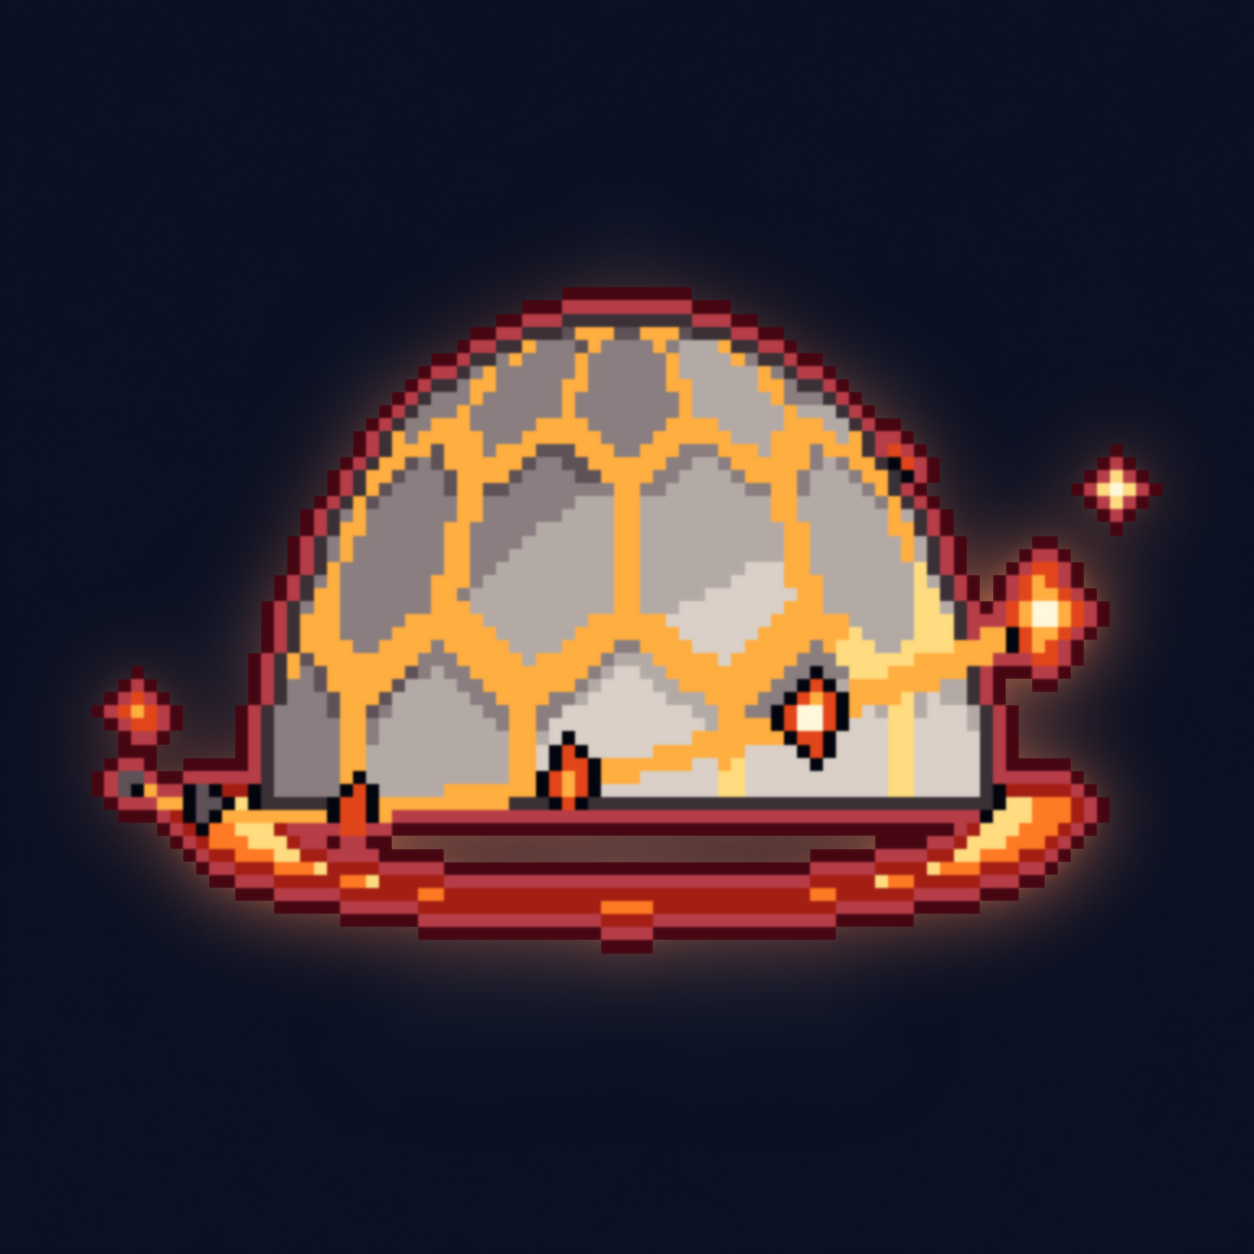
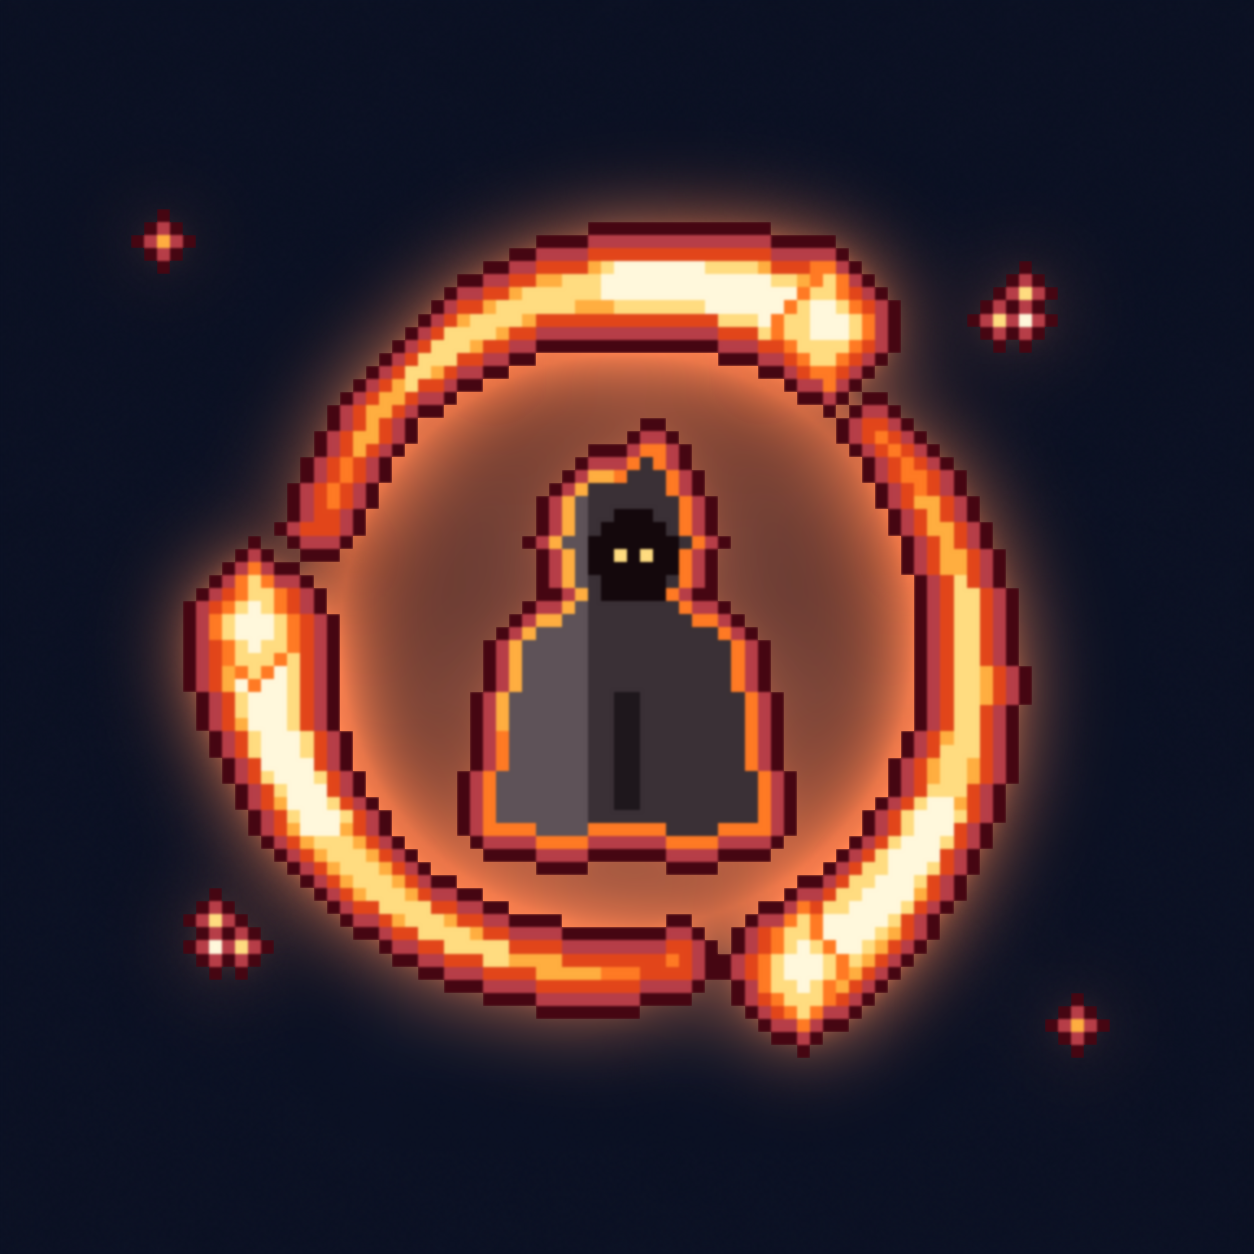
art: Cinder Ward reads as a ward at 64 px - Ilya hooded in ash inside three ember strokes wheeling round her, each swelling to a white-hot cinder, the space within lit; was a dome of ash hex plates that read as a shell
build_skill_icons.py: only cinder_ward changes (comet_arc replaces hex_edge); same 1254 canvas, field, ILYA rim and outline, FLAME and ASH ramps. The other three icons regenerate byte-identical; GUID 207e5208e9d042d787f1fadd89370a3e and its .meta kept. Review sheet: ArtDirection/2026-11-19/skill-icons-02 (untracked).

diff --git a/Tools/ArtReview/build_skill_icons.py b/Tools/ArtReview/build_skill_icons.py
@@ -21,9 +21,9 @@ its glyph painted out):
     steel-blue speed streaks behind it and the strike's white flare at its leading edge.
   - Flame Sigil (Ilya, docs/57 3.2): a furnace glyph on the floor - an ember ring in perspective notched with white-hot
     runes round an inner ring, the floor inside it lit, and a curling flame rising from its centre with two small ones.
-  - Cinder Ward (Ilya): a dome of ash-white hexagonal plates (laid on the sphere, so they crowd toward its edge) whose
-    seams glow ember, on a burning base ring, with a whirl of cinders round it - an orbit's ember trail crossing in
-    front, swelling to a bright cinder at its head.
+  - Cinder Ward (Ilya): Ilya hooded in her ash robe, a dark silhouette rimmed in ember, inside a ward of three ember
+    strokes wheeling round her, each swelling to a white-hot cinder at its head, the space within lit. (Its first
+    paint, a dome of ash hexagonal plates, read as a shell at 64 px; skill-icons-02 of 2026-11-19.)
 
 The Vanguard's two glow the Forge Burst's blue and are rimmed in its blue; Ilya's two glow and are rimmed in the
 Crucible Vent's ember and crimson. Deterministic: the same script paints the same bytes (the inpainted field, minutes to
@@ -331,89 +331,95 @@ def flame_sigil(g):
     sparkle(g, cx + 22, 38, 1, FLAME[5], emit=1.2, core=FLAME[6])
 
 
-def hex_edge(u, v):
-    """Distance from (u, v) to the nearest edge of its cell in a pointy-top hexagonal tiling of unit circumradius."""
-    q = (math.sqrt(3) / 3 * u - v / 3)
-    r = 2.0 / 3 * v
-    x, z = q, r
-    y = -x - z
-    rx, ry, rz = np.round(x), np.round(y), np.round(z)
-    dx, dy, dz = np.abs(rx - x), np.abs(ry - y), np.abs(rz - z)
-    rx = np.where((dx > dy) & (dx > dz), -ry - rz, rx)
-    rz = np.where(~((dx > dy) & (dx > dz)) & ~(dy > dz), -rx - ry, rz)
-    hx = math.sqrt(3) * (rx + rz / 2)
-    hy = 1.5 * rz
-    ox, oy = u - hx, v - hy
-    proj = np.maximum(np.abs(ox), np.maximum(np.abs(ox * 0.5 + oy * math.sqrt(3) / 2),
-                                             np.abs(ox * 0.5 - oy * math.sqrt(3) / 2)))
-    return math.sqrt(3) / 2 - proj, rx, rz
+def comet_arc(cx, cy, head, span, r_head, r_tail, w_head, w_tail):
+    """One stroke of a whirl round (cx, cy): an arc running clockwise (y down) to its head at `head` degrees, `span`
+    degrees long, its radius easing from r_tail to r_head and its half width swelling from w_tail to a round head of
+    w_head. Extra: t (0 at the tail, 1 at the head) and s (-1 inside to 1 outside, across the stroke)."""
+    hx = cx + r_head * math.cos(math.radians(head))
+    hy = cy + r_head * math.sin(math.radians(head))
 
+    def f(x, y):
+        dx, dy = x - cx, y - cy
+        r = np.hypot(dx, dy)
+        back = (head - np.degrees(np.arctan2(dy, dx))) % 360.0
+        on = back <= span
+        t = np.clip(1.0 - back / span, 0, 1)
+        rc = r_tail + (r_head - r_tail) * t
+        w = w_tail + (w_head - w_tail) * t ** 1.4
+        s = (r - rc) / w
+        cap = np.hypot(x - hx, y - hy) <= w_head
+        inside = (on & (np.abs(s) <= 1)) | cap
+        return inside, dict(t=np.where(on, t, 1.0), s=np.where(on, s, 0.0))
 
-HEX_DEG = 19.0
+    return f, (hx, hy)
 
 
 def cinder_ward(g):
-    """A dome of ash-white hexagonal plates, its seams glowing ember, on a burning ring, cinders whirling round it."""
-    cx, base, rx, ry = 48.0, 70.0, 28.0, 38.0
-    orbit_c, orx, ory, tilt = (48.0, 57.0), 40.0, 9.5, -14.0
+    """Ilya hooded in her ash robe, warded by a whirl of three ember strokes, each swelling to a white-hot cinder at its
+    head, round a space lit from within."""
+    cx, cy = 48.0, 49.0
+    r_out = 31.0
 
-    def orbit_point(deg):
-        a = math.radians(deg)
-        x, y = orx * math.cos(a), ory * math.sin(a)
-        b = math.radians(tilt)
-        return orbit_c[0] + x * math.cos(b) - y * math.sin(b), orbit_c[1] + x * math.sin(b) + y * math.cos(b)
+    # The warded space glows, brightest toward the ward's edge (a bubble's rim), drawn as light on the field.
+    xs = (np.arange(N * lib.UP, dtype=np.float32) + 0.5) / lib.UP
+    X, Y = np.meshgrid(xs, xs)
+    d = np.hypot(X - cx, Y - cy) / (r_out - 6.0)
+    fade = np.clip((1.04 - d) / 0.16, 0, 1)
+    g.field += np.array([1.0, 0.42, 0.12], np.float32) * ((0.27 + 0.30 * np.clip(d, 0, 1) ** 2.2) * fade)[..., None]
 
-    def cinder(deg, r, ramp=FLAME, emit=1.3):
-        x, y = orbit_point(deg)
-        pts = [(x, y - r * 1.25), (x + r, y), (x, y + r * 1.25), (x - r, y)]
-        m = part(g, polygon(pts), colours(ramp, 4), ramp, inline=2, emit=emit)
-        if r >= 2.2:
-            g.paint(mask_of(ellipse(x, y, r * 0.45)) & m, ramp[6], separate=False, emit=emit)
-        return m
+    # The ward: three comet strokes wheeling clockwise, a short gap between each tail and the head before it.
+    heads = []
+    for head in (-58.0, 62.0, 182.0):
+        arc, hp = comet_arc(cx, cy, head, 104.0, r_out - 2.6, r_out - 6.2, 3.9, 1.2)
+        m = mask_of(arc)
+        _, e = arc(CX, CY)
+        t, s = e["t"], e["s"]
+        tone = 3 + (t > 0.30) + (t > 0.66)
+        tone = np.where((np.abs(s) < 0.45) & (t > 0.15), tone + 1, tone)
+        tone = np.where(s > 0.62, tone - 1, tone)
+        part(g, m, colours(FLAME, tone), FLAME, inline=2, emit=1.25)
+        heads.append(hp)
 
-    # The far half of the orbit, behind the dome: a few dim cinders.
-    for deg, r in ((-160, 1.4), (-125, 1.6), (-55, 1.6)):
-        cinder(deg, r, emit=0.9)
+    # The cinder at each stroke's head: a white-hot diamond.
+    for hx, hy in heads:
+        r = 4.0
+        pts = [(hx, hy - r * 1.25), (hx + r, hy), (hx, hy + r * 1.25), (hx - r, hy)]
+        m = part(g, polygon(pts), colours(FLAME, 5), FLAME, inline=3, separate=False, emit=1.5)
+        g.paint(mask_of(ellipse(hx, hy, 1.6)) & m, FLAME[6], separate=False, emit=1.6)
 
-    # The base ring, burning.
-    br = ring(cx, base, rx - 1.0, rx + 7.0, squash=0.24)
-    bm = mask_of(br) & (CY >= base - 1.6)
-    _, e = br(CX, CY)
-    part(g, bm, colours(FLAME, np.where(e["r"] < 0.45, 5, 3)), FLAME, inline=1, emit=1.0)
+    # Ilya inside it: a hooded ash robe in silhouette against the lit space, its edge caught in the ward's ember light.
+    # Drawn at its own size, then drawn in a little (k) so the lit space shows all round it.
+    k = 0.88
 
-    # The dome: hexagonal ash plates laid on the sphere (so they crowd toward its edge), their seams lit from inside.
-    dome = ellipse(cx, base, rx, ry)
-    dm = mask_of(dome) & (CY < base)
-    _, e = dome(CX, CY)
-    nx, ny = e["nx"], e["ny"]
-    nz = np.sqrt(np.clip(1 - nx * nx - ny * ny, 0, 1))
-    lat = np.degrees(np.arcsin(np.clip(-ny, -1, 1)))
-    lon = np.degrees(np.arctan2(nx, np.maximum(nz, 1e-3)))
-    edge, hq, hr = hex_edge(lon / HEX_DEG, (lat - 4.0) / HEX_DEG)
-    seam = edge < 0.13 + 0.07 * (np.abs(lon) / 90.0)
-    toward = -(nx * lib.LXY[0] + ny * lib.LXY[1])
-    plate_var = ((hq * 7 + hr * 3) % 3 == 0) * 0.45
-    tone = np.round(4.1 + 1.8 * (0.72 * toward + 0.38 * (nz - 0.55)) + plate_var).astype(int)
-    # Each plate's lower edge a tone darker, so the plates read as raised scales and not as a flat print.
-    below, _, _ = hex_edge(lon / HEX_DEG, (lat - 4.0 + 3.0) / HEX_DEG)
-    tone = np.where((below < 0.13) & ~seam, tone - 1, tone)
-    part(g, dm, colours(ASH, tone), ASH, inline=1)
-    sm = seam & dm & ~edge_of(dm)
-    g.paint(sm, colours(FLAME, np.where(toward > 0.1, 5, 4)), separate=False, emit=0.75)
+    def P(x, y):
+        return cx + (x - cx) * k, cy - 0.6 + (y - cy) * k
 
-    # The near half of the orbit, over the dome: a trail of cinders and flakes growing to its bright head.
-    # The orbit's trail: a thin ember streak swelling toward the head.
-    streak = np.zeros((N, N), bool)
-    for a in np.linspace(176.0, 44.0, 90):
-        x, y = orbit_point(a)
-        r = 0.45 + 0.85 * (1 - (a - 44.0) / 132.0)
-        streak |= mask_of(ellipse(x, y, r))
-    part(g, streak, colours(FLAME, 4), FLAME, inline=None, separate=False, emit=0.8)
-    trail = [(172, 0.9, ASH), (150, 1.2, ASH), (126, 1.6, FLAME), (100, 1.9, FLAME), (72, 2.4, FLAME),
-             (38, 3.3, FLAME)]
-    for deg, r, ramp in trail:
-        cinder(deg, r, ramp=ramp, emit=1.4 if ramp is FLAME else 0.5)
-    sparkle(g, *orbit_point(-10), 1, FLAME[5], emit=1.2, core=FLAME[6])
+    hood = lib.union(ellipse(*P(cx, 41.4), 6.2 * k, 6.8 * k),
+                     polygon([P(42.0, 40.6), P(54.0, 40.6), P(50.8, 32.0)]))
+    robe = lib.union(ellipse(*P(cx, 51.0), 10.4 * k, 5.0 * k),
+                     polygon([P(x, y) for x, y in ((37.8, 51.4), (58.2, 51.4), (60.6, 66.0), (54.0, 67.6),
+                                                    (48.0, 66.6), (42.0, 67.6), (35.4, 66.0))]))
+    body = mask_of(lib.union(hood, robe))
+    tone = np.where(CX < cx - 3.0, 2, 1)
+    cols = colours(ASH, tone)
+    lit_edge = edge_of(body) & ((CX < cx - 1.0) & (CY < P(0, 58.0)[1]))
+    cols[edge_of(body)] = FLAME[3]
+    cols[lit_edge] = FLAME[4]
+    g.paint(body, cols, separate=True, emit=0.0)
+    g.emit[edge_of(body)] = FLAME[3] * 0.5
+    # The face, shadowed in the hood, and the fold down the front of the robe.
+    face = mask_of(ellipse(*P(cx + 0.6, 42.4), 3.3, 3.8)) & body & ~edge_of(body)
+    g.paint(face, np.array([20, 8, 12], np.float32) / 255.0, separate=False)
+    g.dot(*P(cx - 0.9, 42.5), FLAME[5], 1.2)
+    g.dot(*P(cx + 2.1, 42.5), FLAME[5], 1.2)
+    fold = (np.abs(CX + 0.5 - cx - 0.5) < 0.6) & (CY > P(0, 54.0)[1]) & body & ~edge_of(body, 2)
+    g.paint(fold, ASH[0], separate=False)
+
+    # Loose cinders flung off the whirl.
+    sparkle(g, cx + 30, 24, 1, FLAME[5], emit=1.2, core=FLAME[6])
+    sparkle(g, cx - 31, 72, 1, FLAME[5], emit=1.2, core=FLAME[6])
+    g.dot(cx + 34, 79, FLAME[4], 1.0)
+    g.dot(cx - 35, 19, FLAME[4], 1.0)
 
 
 GLYPHS = {
